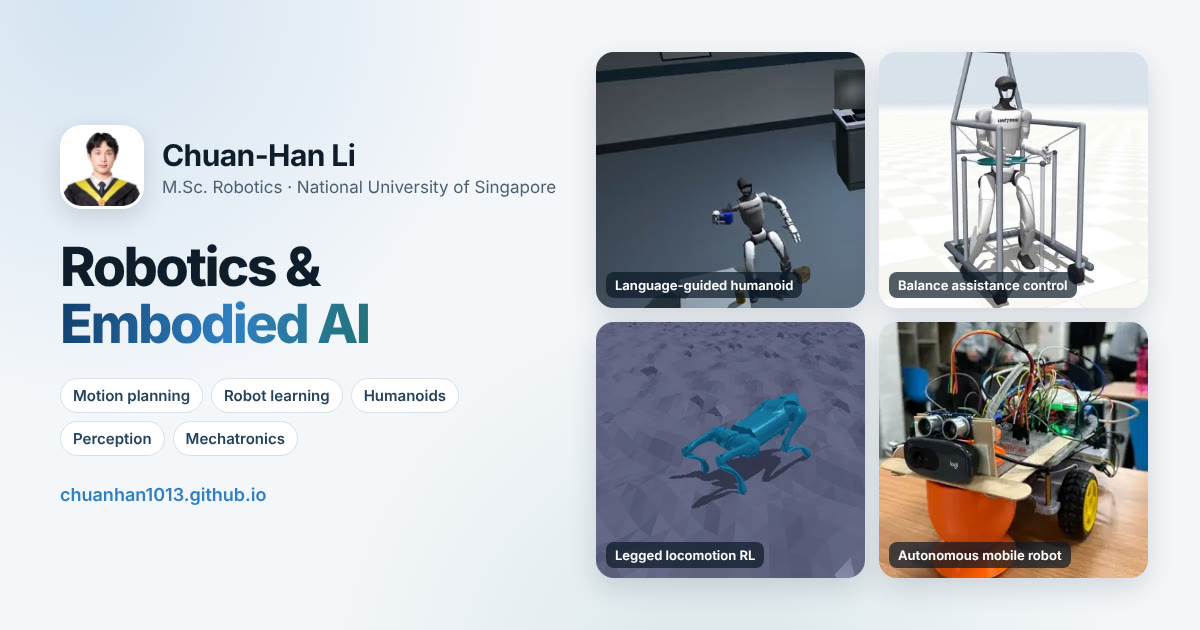
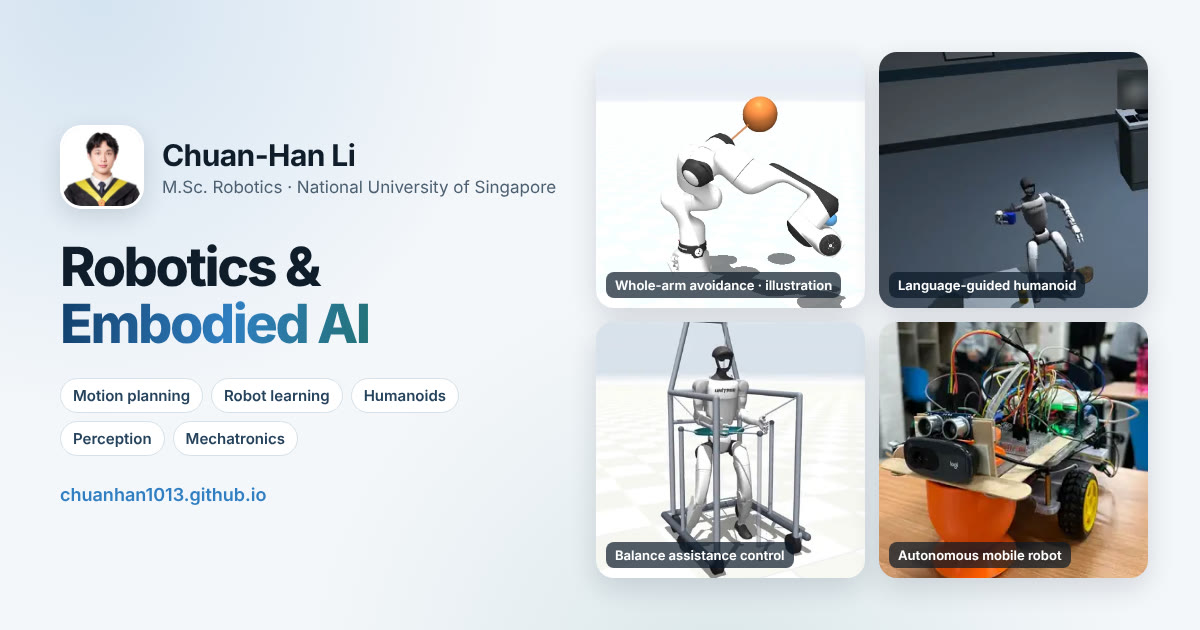
Social preview: lead with the whole-arm avoidance illustration
The research tile (labelled as an illustration) replaces the quadruped, so the
card shows research, humanoid manipulation, control and real hardware.

Claude-Session: https://claude.ai/code/session_01Mr7K3GKAexz3gMKH58bcbh

Changed region(s): [[0.4933, 0.0603, 0.9558, 0.9349]]

diff --git a/docs/og/og-image.html b/docs/og/og-image.html
@@ -147,13 +147,13 @@
     </div>
     <div class="g">
       <div class="t">
+        <img src="tiles/fr3.webp" style="object-position: 50% 40%" /><b>Whole-arm avoidance · illustration</b>
+      </div>
+      <div class="t">
         <img src="tiles/vla14.webp" style="object-position: 50% 50%" /><b>Language-guided humanoid</b>
       </div>
       <div class="t">
         <img src="tiles/cp2.webp" style="object-position: 50% 35%" /><b>Balance assistance control</b>
-      </div>
-      <div class="t">
-        <img src="tiles/sata2.webp" style="object-position: 50% 50%" /><b>Legged locomotion RL</b>
       </div>
       <div class="t">
         <img src="../../public/assets/media/cleaning-final.webp" style="object-position: 50% 50%" /><b
